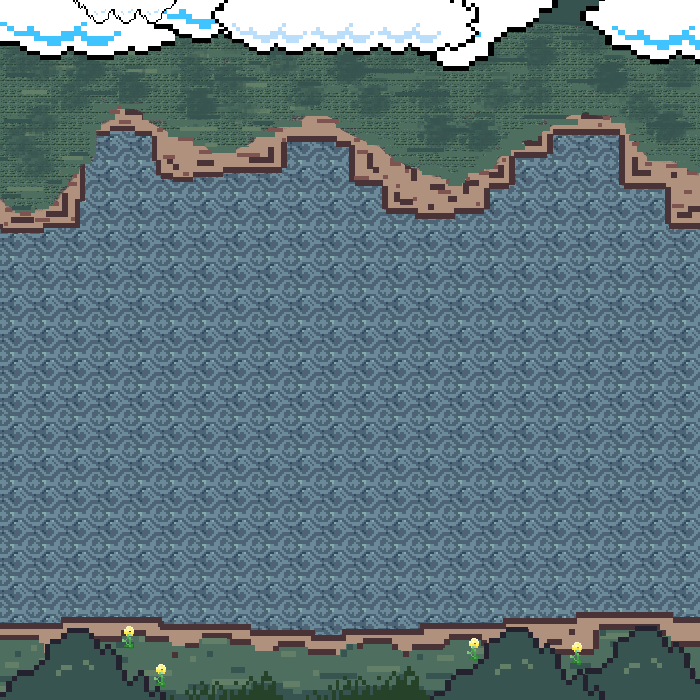
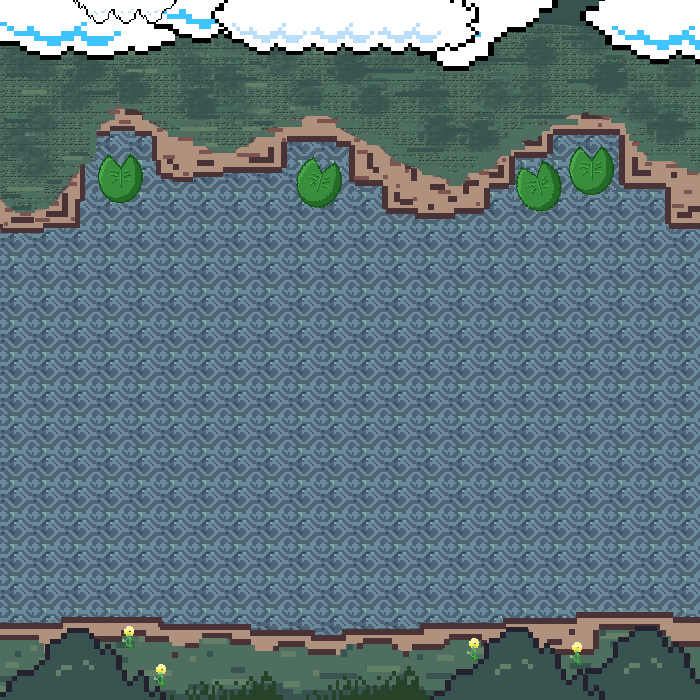
Reemplazada imagen de lago y añadida función de ganar

Changed region(s): [[0.72, 0.21, 0.9, 0.3], [0.42, 0.21, 0.51, 0.3], [0.12, 0.21, 0.21, 0.3]]

diff --git a/dynamics/index.js b/dynamics/index.js
@@ -12,6 +12,11 @@ let seg = 0;
 let coli=0;
 let vidas= 4;  
 let pierde=0;
+let lirio1=0;
+let lirio2=0;
+let lirio3=0;
+let lirio4=0;
+let con=0;
 
 const lago = new Image();
 lago.src = "./statics/img/lago.png";
@@ -35,7 +40,7 @@ function colision(x1, y1, w1, h1, x2, y2, w2, h2) {
 }
 
 //cookies 
-if (ganar == 0) {
+if (ganar == 4) {
     let día = new Date();
     día.setTime(día.getTime() + (3 * 24 * 60 * 1000));
     var cookievalue = "BEPC";
@@ -136,30 +141,30 @@ function fondo(){
         // tortuga3.sprites();
         // tortuga4.sprites();
 
-        if(colision(tortuga1.x, tortuga1.y, tortuga1.anchoCanvas, tortuga1.altoCanvas, slime.x, slime.y, slime.altoSprite, slime.altoCanvas) || 
-           colision(tortuga1.x, tortuga1.y, tortuga1.anchoCanvas, tortuga1.altoCanvas, morada.x, morada.y, morada.altoSprite, morada.altoCanvas) || 
-           colision(tortuga1.x, tortuga1.y, tortuga1.anchoCanvas, tortuga1.altoCanvas, tronco.x, tronco.y, tronco.altoSprite, tronco.altoCanvas) || 
-           colision(tortuga1.x, tortuga1.y, tortuga1.anchoCanvas, tortuga1.altoCanvas, gato.x, gato.y, gato.altoSprite, gato.altoCanvas) || 
-           colision(tortuga1.x, tortuga1.y, tortuga1.anchoCanvas, tortuga1.altoCanvas, coete.x, coete.y, coete.altoSprite, coete.altoCanvas) || 
-           colision(tortuga1.x, tortuga1.y, tortuga1.anchoCanvas, tortuga1.altoCanvas, pez.x, pez.y, pez.altoSprite, pez.altoCanvas)
-           ){
-            tortuga1.x=300;
-            tortuga1.y=570;
-            vidas--;
-            console.log("colisión "," vidarestante: ", vidas);
+        // if(colision(tortuga1.x, tortuga1.y, tortuga1.anchoCanvas, tortuga1.altoCanvas, slime.x, slime.y, slime.altoSprite, slime.altoCanvas) || 
+        //    colision(tortuga1.x, tortuga1.y, tortuga1.anchoCanvas, tortuga1.altoCanvas, morada.x, morada.y, morada.altoSprite, morada.altoCanvas) || 
+        //    colision(tortuga1.x, tortuga1.y, tortuga1.anchoCanvas, tortuga1.altoCanvas, tronco.x, tronco.y, tronco.altoSprite, tronco.altoCanvas) || 
+        //    colision(tortuga1.x, tortuga1.y, tortuga1.anchoCanvas, tortuga1.altoCanvas, gato.x, gato.y, gato.altoSprite, gato.altoCanvas) || 
+        //    colision(tortuga1.x, tortuga1.y, tortuga1.anchoCanvas, tortuga1.altoCanvas, coete.x, coete.y, coete.altoSprite, coete.altoCanvas) || 
+        //    colision(tortuga1.x, tortuga1.y, tortuga1.anchoCanvas, tortuga1.altoCanvas, pez.x, pez.y, pez.altoSprite, pez.altoCanvas)
+        //    ){
+        //     tortuga1.x=300;
+        //     tortuga1.y=570;
+        //     vidas--;
+        //     console.log("colisión "," vidarestante: ", vidas);
 
-            if(vidas == 3){
-                tortuga1.img.src ="statics/img/tortuga2.png";
-                console.log("entras?nomanches");
-            } else if(vidas == 2){
-                tortuga1.img.src ="statics/img/tortuga3.png";
-                console.log("entras?nomanches");
-            } else if(vidas == 1){
-                tortuga1.img.src ="statics/img/tortuga4.png";
-                console.log("entras?nomanches");
-            }
+        //     if(vidas == 3){
+        //         tortuga1.img.src ="statics/img/tortuga2.png";
+        //         console.log("entras?nomanches");
+        //     } else if(vidas == 2){
+        //         tortuga1.img.src ="statics/img/tortuga3.png";
+        //         console.log("entras?nomanches");
+        //     } else if(vidas == 1){
+        //         tortuga1.img.src ="statics/img/tortuga4.png";
+        //         console.log("entras?nomanches");
+        //     }
 
-        }      
+        // }      
 
         if(vidas == 0){
             pierde = 1;
@@ -172,6 +177,31 @@ function fondo(){
             contador.parentElement.style.display = "none";
         }
 
+        if(colision(tortuga1.x, tortuga1.y, tortuga1.anchoCanvas, tortuga1.altoCanvas, 105, 135, 10, 10) == 1 && lirio1==0){
+            ganar++;
+            lirio1=1;
+            //ctx.drawImage(tortuga1.img, 47, 12, 103, 156, tortuga1.x, tortuga1.y, 40, 55);
+            tortuga1.x=300;
+            tortuga1.y=570;
+        }else if(colision(tortuga1.x, tortuga1.y, tortuga1.anchoCanvas, tortuga1.altoCanvas, 300, 135, 10, 10) == 1 && lirio2==0){
+            ganar++;
+            lirio2=1;
+            //ctx.drawImage(tortuga1.img, 47, 12, 103, 156, tortuga1.x, tortuga1.y, 40, 55);
+            tortuga1.x=300;
+            tortuga1.y=570;
+        }else if(colision(tortuga1.x, tortuga1.y, tortuga1.anchoCanvas, tortuga1.altoCanvas, 585, 135, 10, 10) == 1 && lirio3==0){
+            ganar++;
+            lirio3=1;
+            //ctx.drawImage(tortuga1.img, 47, 12, 103, 156, tortuga1.x, tortuga1.y, 40, 55);
+            tortuga1.x=300;
+            tortuga1.y=570;
+        }else if(colision(tortuga1.x, tortuga1.y, tortuga1.anchoCanvas, tortuga1.altoCanvas, 540, 135, 10, 10) == 1 && lirio4==0){
+            ganar++;
+            lirio4=1;
+            //ctx.drawImage(tortuga1.img, 47, 12, 103, 156, tortuga1.x, tortuga1.y, 40, 55);
+            tortuga1.x=300;
+            tortuga1.y=570;
+        }
     }
     window.requestAnimationFrame(fondo);
 }
@@ -211,22 +241,27 @@ document.addEventListener('keydown', (event) => {
     if (jugar == 1){
         switch (tecla){
             case 'ArrowUp': 
-                //console.log(tecla);
-                if(tortuga1.y>135)         //no deja que se salga del canvas
+                console.log(tecla);
+                if(colision(tortuga1.x, tortuga1.y, tortuga1.anchoCanvas, tortuga1.altoCanvas, 0, 135, 90, 80) == 0 &&
+                    colision(tortuga1.x, tortuga1.y, tortuga1.anchoCanvas, tortuga1.altoCanvas, 150, 135, 150, 40) == 0 && 
+                    colision(tortuga1.x, tortuga1.y, tortuga1.anchoCanvas, tortuga1.altoCanvas, 365, 135, 150, 65) == 0 && 
+                    colision(tortuga1.x, tortuga1.y, tortuga1.anchoCanvas, tortuga1.altoCanvas, 640, 135, 90, 80) == 0){
+                    if(tortuga1.y>135)         //no deja que se salga del canvas
                     tortuga1.y-=mov;
-                //console.log(tortuga1.y);
-                if(tortuga1.spriteX == 47){
-                    tortuga1.spriteX = 250;
-                } else if(tortuga1.spriteX == 250){
-                    tortuga1.spriteX = 47;
+                    console.log(tortuga1.y);
+                    if(tortuga1.spriteX == 47){
+                        tortuga1.spriteX = 250;
+                    } else if(tortuga1.spriteX == 250){
+                        tortuga1.spriteX = 47;
+                    }
                 }
                 break;
     
             case 'ArrowDown':
-                //console.log(tecla);
+                console.log(tecla);
                 if(tortuga1.y<585)       //no deja que se salga del canvas
                     tortuga1.y+=mov;
-                //console.log(tortuga1.y);
+                console.log(tortuga1.y);
                 if(tortuga1.spriteX == 47){
                     tortuga1.spriteX = 250;
                 } else if(tortuga1.spriteX == 250){
@@ -235,26 +270,34 @@ document.addEventListener('keydown', (event) => {
                 break;
     
             case 'ArrowRight':
-                //console.log(tecla);
-                if(tortuga1.x<675)      //no deja que se salga del canvas
-                    tortuga1.x+=mov;
-                //console.log(tortuga1.x);
-                if(tortuga1.spriteX == 47){
-                    tortuga1.spriteX = 250;
-                } else if(tortuga1.spriteX == 250){
-                    tortuga1.spriteX = 47;
+                if(colision(tortuga1.x, tortuga1.y, tortuga1.anchoCanvas, tortuga1.altoCanvas, 150, 135, 150, 40) == 0 && 
+                   colision(tortuga1.x, tortuga1.y, tortuga1.anchoCanvas, tortuga1.altoCanvas, 365, 135, 150, 65) == 0 && 
+                   colision(tortuga1.x, tortuga1.y, tortuga1.anchoCanvas, tortuga1.altoCanvas, 635, 135, 90, 80) == 0){
+                    console.log(tecla);
+                    if(tortuga1.x<675)      //no deja que se salga del canvas
+                        tortuga1.x+=mov;
+                    console.log(tortuga1.x);
+                    if(tortuga1.spriteX == 47){
+                        tortuga1.spriteX = 250;
+                    } else if(tortuga1.spriteX == 250){
+                        tortuga1.spriteX = 47;
+                    }
                 }
                 break;
     
             case 'ArrowLeft':
-                //console.log(tecla);
-                if(tortuga1.x>0)         //no deja que se salga del canvas
-                    tortuga1.x-=mov;
-                //console.log(tortuga1.x);
-                if(tortuga1.spriteX == 47){
-                    tortuga1.spriteX = 250;
-                } else if(tortuga1.spriteX == 250){
-                    tortuga1.spriteX = 47;
+                if(colision(tortuga1.x, tortuga1.y, tortuga1.anchoCanvas, tortuga1.altoCanvas, 0, 135, 95, 80) == 0 &&
+                   colision(tortuga1.x, tortuga1.y, tortuga1.anchoCanvas, tortuga1.altoCanvas, 155, 135, 150, 40) == 0 && 
+                   colision(tortuga1.x, tortuga1.y, tortuga1.anchoCanvas, tortuga1.altoCanvas, 365, 135, 170, 65) == 0){
+                    console.log(tecla);
+                    if(tortuga1.x>0)         //no deja que se salga del canvas
+                        tortuga1.x-=mov;
+                    console.log(tortuga1.x);
+                    if(tortuga1.spriteX == 47){
+                        tortuga1.spriteX = 250;
+                    } else if(tortuga1.spriteX == 250){
+                        tortuga1.spriteX = 47;
+                    }
                 }
                 break;
     
